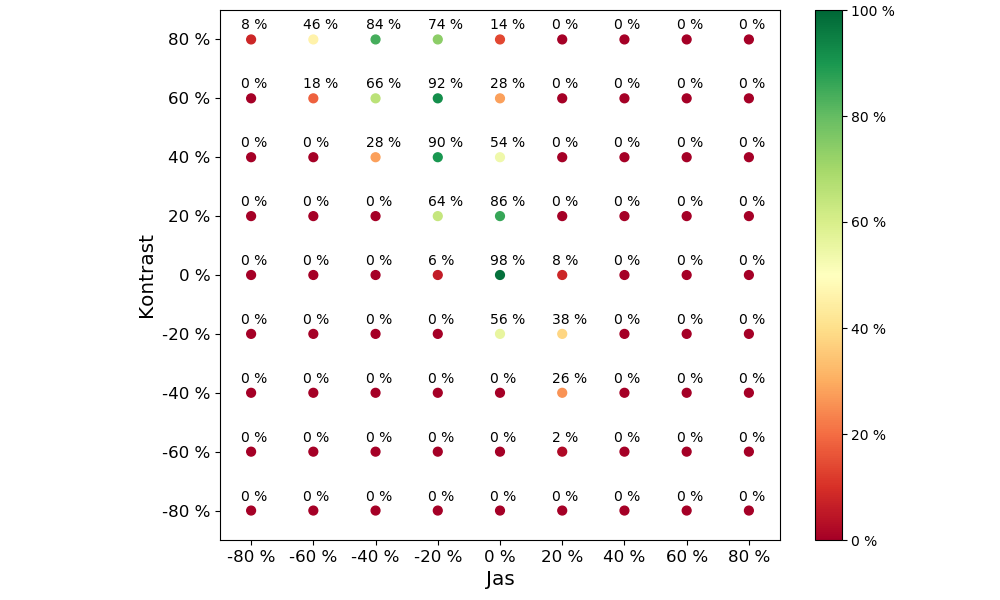
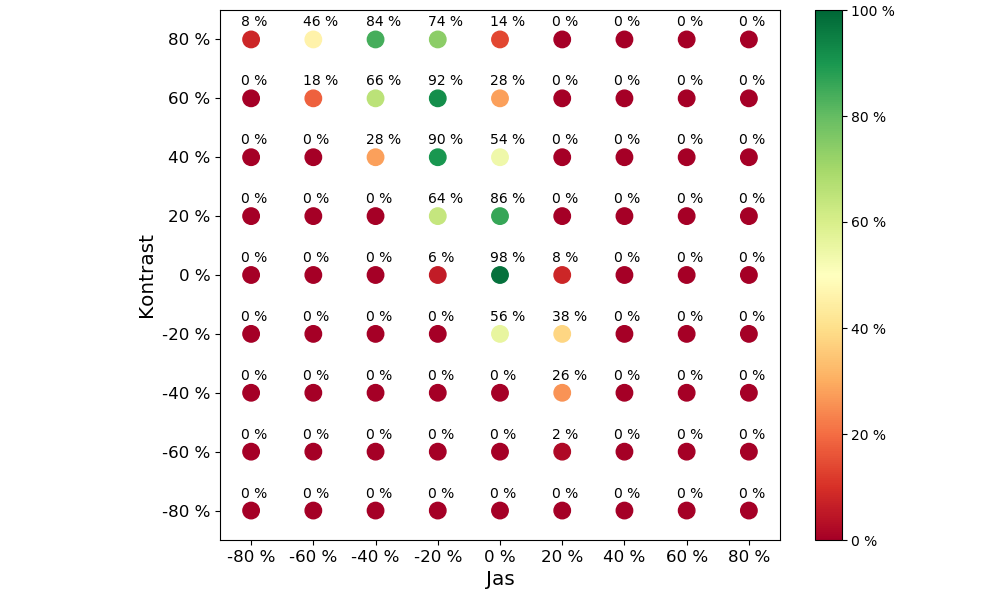
Made the circles larger to better show the color

diff --git a/src/scripts/charts/generateCharts3.py b/src/scripts/charts/generateCharts3.py
@@ -438,13 +438,13 @@ def lighting(title=None, filename=None, show=False):
     for tick in [*axis.get_xticklabels(), *axis.get_yticklabels()]:
         tick.set_fontsize("large")
 
-    sc = axis.scatter(x, y, c=z, vmin=0, vmax=1, s=40, cmap=colorMap)
+    sc = axis.scatter(x, y, c=z, vmin=0, vmax=1, s=140, cmap=colorMap)
     fig.colorbar(sc, format=FuncFormatter(PERCENTAGE_FORMATTER))
     for i in range(len(x)):
         _x = x[i]
         _y = y[i]
         acc = z[i]
-        axis.annotate(PERCENTAGE_FORMATTER(acc, 0), (_x, _y), textcoords="offset pixels", xytext=(-10, 10))
+        axis.annotate(PERCENTAGE_FORMATTER(acc, 0), (_x, _y), textcoords="offset pixels", xytext=(-10, 13))
 
     top = TOP_MARGIN_TITLE if title else TOP_MARGIN_NO_TITLE
     plt.subplots_adjust(**transformMargins(left=2.2, right=0.8, bottom=0.6, top=top, pictureSize=PICTURE_SIZE), hspace=0.15)
